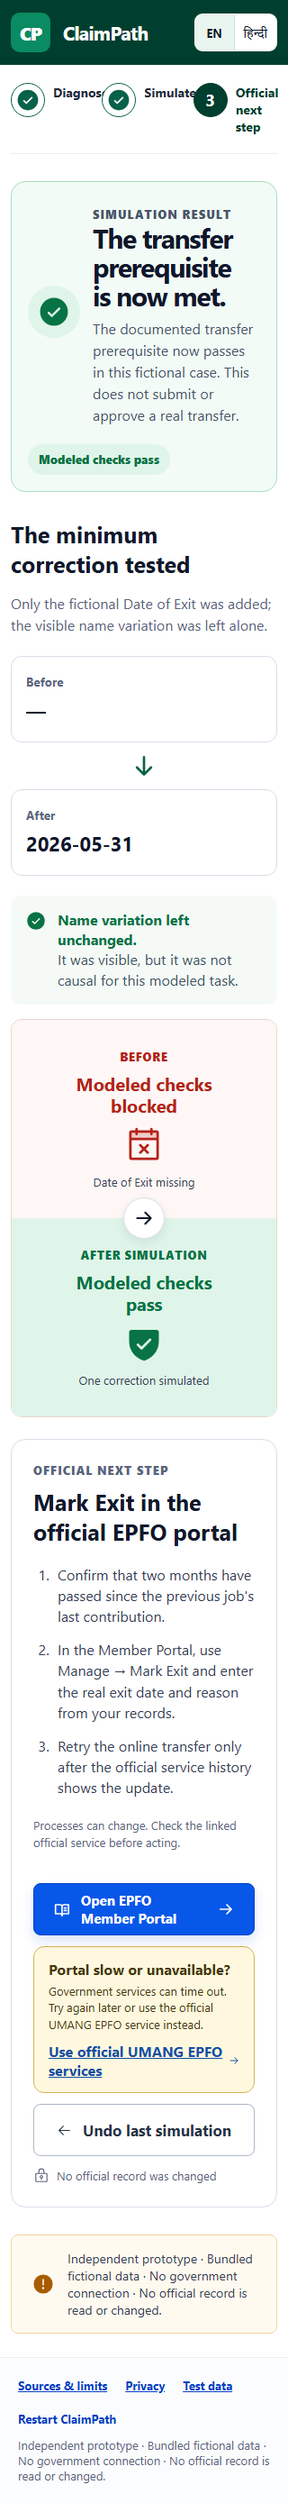
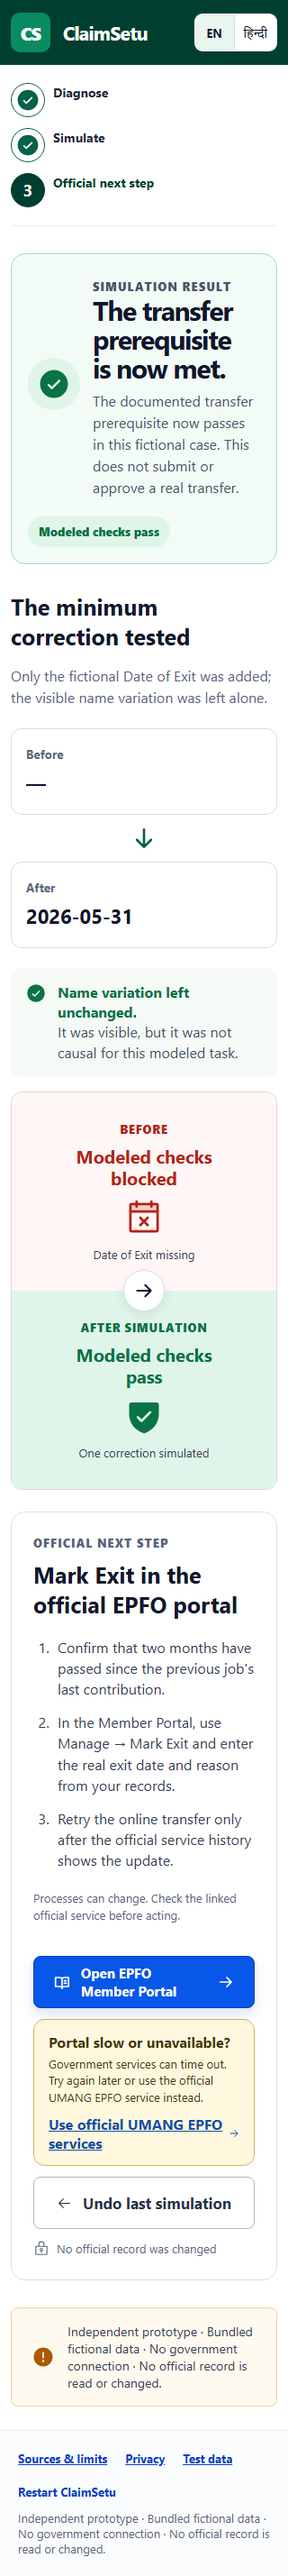
final: mobile polish documented and verified; release re-frozen

diff --git a/submission/07_FINAL_RELEASE_REPORT.md b/submission/07_FINAL_RELEASE_REPORT.md
@@ -17,7 +17,8 @@ ClaimSetu — an EPFO transfer pre-flight. One citizen job: find what actually b
 3. **Submission summary corrected to exactly 250 words** (was 221 in `SUBMISSION.md`, 194 in the demo doc). Canonical copy: `submission/02_SUBMISSION_SUMMARY_250_WORDS.md`, whitespace-split count verified programmatically = 250.
 4. **Created the `submission/` pack** (checklist, 250-word summary, video script, walkthrough, judge access, problem evidence, this report).
 5. **Added a typed citizen flow to the sandbox** (after the initial freeze, on request): under "Answer a few questions. Get the same check.", a citizen types the two names, the Date of Exit, the waiting-period answer and the proposed exit date; the form builds the same validated `claimpath-test-case.v1` object and runs the identical deterministic engine, including the REVIEW state when a name relation is unconfirmed and rejection of names containing digits. No identifiers are accepted; answers stay in the browser tab. Verified locally across six states (REVIEW, BLOCK, FIX→met, direct MET, WAITING, invalid input) and on production in a fresh browser; full suites re-run (7 vitest, 6 e2e, static-pages smoke, tsc, build:pages).
-6. No changes to the hero journey, rules, or existing pages' behaviour.
+6. **Mobile polish (on request):** form inputs raised to 16 px so iOS Safari does not auto-zoom, footer links given touch-sized padding on small screens, and `100dvh` + `text-size-adjust` for mobile browser chrome. Verified with iPhone-13 emulation (390×844, DPR 3, touch) through the full journey and typed flow, no horizontal overflow at 320/360/390 px, and re-verified live on production with the shipped bundle.
+7. No changes to the hero journey, rules, or existing pages' behaviour.
 
 ## Tests run (all pass, 28 Aug 2026)
 
